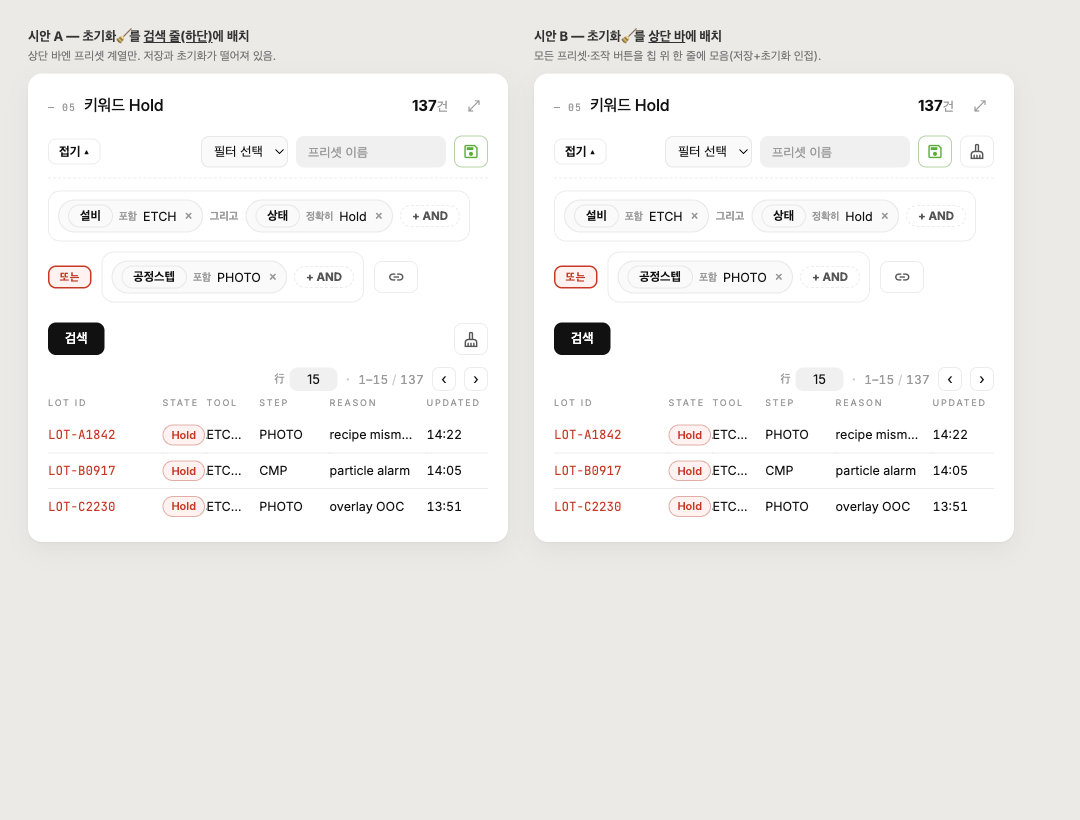
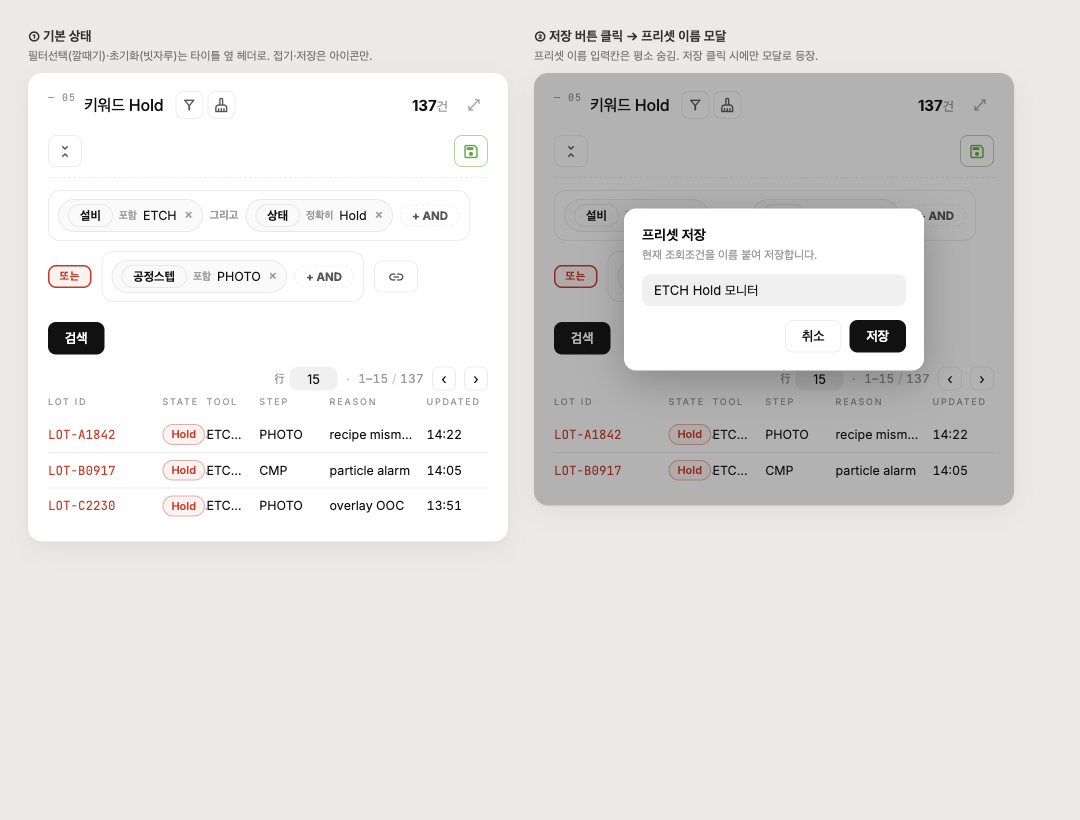
docs(kw-hold): 시안 v2 — 피드백 4종 반영
#1 접기/펼치기 아이콘만(unfold_less), #2 프리셋 이름 저장 모달화,
#3 필터선택 filter_alt(깔때기) 헤더 타이틀 옆 이동,
#4 초기화 빗자루 헤더 깔때기 옆 이동. (초기화 A/B 분기 폐기 → 단일안)

diff --git a/docs/mockups/kw-hold/mockup.html b/docs/mockups/kw-hold/mockup.html
@@ -2,7 +2,7 @@
 <html lang="ko">
 <head>
 <meta charset="utf-8" />
-<title>키워드 Hold — 리디자인 시안 A/B</title>
+<title>키워드 Hold — 리디자인 시안 v2</title>
 <link rel="preconnect" href="https://fonts.googleapis.com" />
 <link rel="preconnect" href="https://fonts.gstatic.com" crossorigin />
 <link href="https://fonts.googleapis.com/css2?family=Inter:wght@400;500;600;700;800&family=JetBrains+Mono:wght@400;500&family=Material+Symbols+Outlined:opsz,wght,FILL,GRAD@20..48,100..700,0..1,-50..200" rel="stylesheet" />
@@ -25,12 +25,11 @@
   .variant__cap{font-size:13px;font-weight:700;color:#333;margin:0 0 4px;}
   .variant__sub{font-size:11.5px;color:#777;margin:0 0 10px;}
 
-  /* ── card / panel (실제 styles.css 발췌, light theme) ── */
-  .card{display:flex;flex-direction:column;min-width:0;background:var(--canvas);
+  .card{position:relative;display:flex;flex-direction:column;min-width:0;background:var(--canvas);
     padding:18px 20px;border-radius:14px;box-shadow:0 1px 2px rgba(0,0,0,.04),0 8px 24px rgba(0,0,0,.05);}
   .card__head{display:flex;align-items:center;justify-content:space-between;gap:14px;margin-bottom:16px;}
-  .kw-titlewrap{display:flex;align-items:baseline;gap:8px;}
-  .card__index{font-family:var(--font-mono);font-size:10px;color:var(--ink-mute);letter-spacing:.1em;margin:0;}
+  .kw-titlewrap{display:flex;align-items:center;gap:8px;}
+  .card__index{font-family:var(--font-mono);font-size:10px;color:var(--ink-mute);letter-spacing:.1em;margin:0;align-self:baseline;}
   .card__title{margin:0;font-size:16px;font-weight:500;letter-spacing:-.015em;}
   .card__meta{font-size:10px;color:var(--ink-mute);letter-spacing:.18em;text-transform:uppercase;
     display:inline-flex;align-items:center;gap:12px;}
@@ -39,25 +38,24 @@
   .card__icon{display:grid;place-items:center;width:28px;height:28px;border-radius:999px;background:transparent;border:0;color:var(--ink-mute);cursor:pointer;}
   .card__icon .material-symbols-outlined{font-size:16px;}
 
-  /* ── NEW: 상단 컨트롤 바 (칩 위) ── */
-  .kw-topbar{display:flex;align-items:center;gap:8px;flex-wrap:wrap;
-    padding:0 0 10px;margin:0 0 12px;border-bottom:1px dashed var(--rule);}
+  /* 타이틀 옆 헤더 아이콘 — 필터선택(깔때기) + 초기화(빗자루) (#3,#4) */
+  .kw-headicon{display:inline-flex;align-items:center;justify-content:center;width:28px;height:28px;border-radius:8px;
+    border:1px solid var(--rule);background:transparent;color:var(--ink-soft);cursor:pointer;}
+  .kw-headicon .material-symbols-outlined{font-size:18px;}
+  .kw-headgroup{display:inline-flex;align-items:center;gap:4px;margin-left:4px;}
+
+  /* 상단 컨트롤 바 (칩 위) — 접기 아이콘 + 저장 아이콘 */
+  .kw-topbar{display:flex;align-items:center;gap:8px;padding:0 0 10px;margin:0 0 12px;border-bottom:1px dashed var(--rule);}
   .kw-topbar__grow{flex:1 1 auto;}
-
-  .kw-toggle{border:1px solid var(--rule);background:transparent;color:inherit;border-radius:8px;
-    padding:4px 10px;font-size:12.5px;font-weight:700;cursor:pointer;font-family:inherit;white-space:nowrap;}
-  .kw-select{background:var(--soft);color:inherit;border:1px solid var(--rule);border-radius:8px;
-    padding:6px 8px;font-size:13px;font-family:inherit;}
-  .field__input{background:var(--tint);border:0;border-radius:8px;padding:8px 12px;font-size:13px;color:var(--ink);font-family:inherit;}
-  .field__input::placeholder{color:var(--ink-mute);}
-  .kw-value{min-width:110px;flex:0 1 150px;}
-
   .kw-iconbtn{display:inline-flex;align-items:center;justify-content:center;border:1px solid var(--rule);
     background:transparent;color:var(--ink-soft);border-radius:8px;min-width:34px;height:32px;padding:0 6px;cursor:pointer;font-family:inherit;}
   .kw-iconbtn .material-symbols-outlined{font-size:19px;}
   .kw-iconbtn--save{color:var(--save);border-color:color-mix(in srgb,var(--save) 40%,var(--rule));}
 
-  /* ── 칩 빌더 ── */
+  .field__input{background:var(--tint);border:0;border-radius:8px;padding:8px 12px;font-size:13px;color:var(--ink);font-family:inherit;}
+  .field__input::placeholder{color:var(--ink-mute);}
+
+  /* 칩 빌더 */
   .kw-edit{margin-bottom:8px;}
   .kw-builder--chips{display:flex;flex-wrap:wrap;align-items:center;gap:10px;margin-bottom:12px;}
   .kw-chipbox{display:inline-flex;flex-wrap:wrap;align-items:center;gap:7px;padding:8px 9px;border-radius:12px;border:1px solid var(--rule);background:var(--canvas);}
@@ -70,19 +68,15 @@
   .kw-chip__x{border:0;background:transparent;color:var(--ink-mute);cursor:pointer;font-size:14px;line-height:1;padding:0 0 0 2px;}
   .kw-ghost__op{font-size:10.5px;font-weight:600;color:var(--ink-mute);}
   .kw-add-chip{border:1px dashed var(--rule);background:transparent;color:var(--ink-soft);border-radius:999px;padding:3px 11px;font-size:11.5px;font-weight:700;cursor:pointer;font-family:inherit;}
-
-  /* OR 추가 — 사슬(link) 아이콘 (#2) */
   .kw-add-or{display:inline-flex;align-items:center;justify-content:center;border:1px solid var(--rule);background:transparent;color:var(--ink-soft);
     border-radius:8px;min-width:34px;height:32px;padding:0 12px;cursor:pointer;font-family:inherit;}
   .kw-add-or .material-symbols-outlined{font-size:18px;}
 
-  /* ── 검색 액션 줄 ── */
   .kw-actions{display:flex;align-items:center;gap:8px;margin:0 0 12px;}
-  .kw-actions__grow{flex:1 1 auto;}
   .kw-btn{border:1px solid var(--rule);background:transparent;color:inherit;border-radius:8px;padding:7px 16px;font-size:13px;font-weight:600;cursor:pointer;font-family:inherit;}
   .kw-btn--primary{background:var(--accent);color:var(--canvas);border-color:transparent;}
 
-  /* ── 스테퍼 (lot hold 동일 모양, 결과 위) (#1) ── */
+  /* 스테퍼 (lot hold 동일, 결과 위) (#1 — 이전 라운드 확정) */
   .lot-step{display:inline-flex;align-items:center;gap:8px;font-variant-numeric:tabular-nums;}
   .lot-step__size{font-size:12px;color:var(--ink-mute);display:inline-flex;align-items:center;gap:5px;}
   .lot-step__sizeinput{min-width:44px;width:48px;padding:4px 6px;text-align:center;}
@@ -93,7 +87,6 @@
     width:24px;height:24px;border-radius:7px;cursor:pointer;display:inline-flex;align-items:center;justify-content:center;}
   .kw-steprow{display:flex;justify-content:flex-end;align-items:center;margin:0 0 6px;}
 
-  /* ── 결과 테이블 ── */
   .lot-table{width:100%;border-collapse:collapse;font-variant-numeric:tabular-nums;table-layout:fixed;}
   .lot-table thead th{text-align:left;font-size:9px;letter-spacing:.2em;text-transform:uppercase;color:var(--ink-mute);font-weight:400;padding:0 0 10px;}
   .lot-table td{padding:7px 10px 7px 0;font-size:12.5px;line-height:1.35;vertical-align:middle;white-space:nowrap;overflow:hidden;text-overflow:ellipsis;border-bottom:1px solid var(--rule);}
@@ -102,25 +95,35 @@
   tr.is-hold .lot-table__lot-id{color:var(--hold);}
   .pill{display:inline-flex;align-items:center;padding:2px 8px;border-radius:999px;font-size:11px;font-weight:600;border:1px solid var(--rule);}
   .pill--hold{color:var(--hold);background:var(--hold-soft);border-color:color-mix(in srgb,var(--hold) 30%,var(--rule));}
-  .badge-new{display:inline-flex;align-items:center;gap:3px;font-size:10px;font-weight:700;color:#fff;background:var(--hold);border-radius:6px;padding:2px 7px;letter-spacing:.02em;vertical-align:middle;}
 
-  .tag{display:inline-block;font-size:10px;font-weight:700;border-radius:5px;padding:1px 6px;margin-left:6px;vertical-align:middle;}
-  .tag--new{color:#fff;background:var(--hold);}
-  .tag--icon{color:var(--ink-soft);background:var(--tint);}
+  /* 저장 모달 (#2) */
+  .modal-backdrop{position:absolute;inset:0;background:rgba(17,17,17,.32);border-radius:14px;
+    display:flex;align-items:center;justify-content:center;z-index:5;}
+  .modal{width:300px;background:var(--canvas);border-radius:12px;padding:18px;
+    box-shadow:0 12px 40px rgba(0,0,0,.25);}
+  .modal__title{margin:0 0 4px;font-size:14px;font-weight:700;}
+  .modal__hint{margin:0 0 12px;font-size:11.5px;color:var(--ink-mute);}
+  .modal__field{width:100%;}
+  .modal__actions{display:flex;justify-content:flex-end;gap:8px;margin-top:14px;}
+  .badge-hint{display:inline-block;font-size:10px;font-weight:700;color:#fff;background:var(--hold);border-radius:5px;padding:1px 6px;margin-left:6px;vertical-align:middle;}
 </style>
 </head>
 <body>
 <div class="stage">
 
-  <!-- ════════ 시안 A ════════ -->
+  <!-- ════════ 기본 상태 ════════ -->
   <section class="variant">
-    <p class="variant__cap">시안 A — 초기화🧹를 <u>검색 줄(하단)</u>에 배치</p>
-    <p class="variant__sub">상단 바엔 프리셋 계열만. 저장과 초기화가 떨어져 있음.</p>
+    <p class="variant__cap">① 기본 상태</p>
+    <p class="variant__sub">필터선택(깔때기)·초기화(빗자루)는 타이틀 옆 헤더로. 접기·저장은 아이콘만.</p>
     <article class="card">
       <header class="card__head">
         <div class="kw-titlewrap">
           <p class="card__index">— 05</p>
           <h2 class="card__title">키워드 Hold</h2>
+          <span class="kw-headgroup">
+            <button class="kw-headicon" title="필터 선택(프리셋 불러오기)"><span class="material-symbols-outlined">filter_alt</span></button>
+            <button class="kw-headicon" title="초기화"><span class="material-symbols-outlined">cleaning_services</span></button>
+          </span>
         </div>
         <div class="card__meta">
           <span class="kw-count"><strong>137</strong>건</span>
@@ -128,16 +131,13 @@
         </div>
       </header>
 
-      <!-- 상단 컨트롤 바 (NEW) -->
+      <!-- 상단 바: 접기 아이콘(좌) · 저장 아이콘(우) -->
       <div class="kw-topbar">
-        <button class="kw-toggle">접기 ▴</button>
+        <button class="kw-iconbtn" title="접기"><span class="material-symbols-outlined">unfold_less</span></button>
         <span class="kw-topbar__grow"></span>
-        <select class="kw-select"><option>필터 선택</option></select>
-        <input class="field__input kw-value" placeholder="프리셋 이름" />
-        <button class="kw-iconbtn kw-iconbtn--save" title="프리셋 저장"><span class="material-symbols-outlined">save</span></button>
+        <button class="kw-iconbtn kw-iconbtn--save" title="프리셋 저장(모달)"><span class="material-symbols-outlined">save</span></button>
       </div>
 
-      <!-- 칩 빌더 -->
       <div class="kw-edit">
         <div class="kw-builder--chips">
           <div class="kw-chipbox">
@@ -151,19 +151,14 @@
             <span class="kw-chip"><span class="kw-chip__fieldtag">공정스텝</span><span class="kw-ghost__op">포함</span>PHOTO<button class="kw-chip__x">×</button></span>
             <button class="kw-add-chip">+ AND</button>
           </div>
-          <!-- OR 추가 = 사슬(link) 아이콘 (#2) -->
           <button class="kw-add-or" title="또는(OR) 그룹 추가"><span class="material-symbols-outlined">link</span></button>
         </div>
       </div>
 
-      <!-- 검색 줄 — 초기화🧹가 여기(A) -->
       <div class="kw-actions">
         <button class="kw-btn kw-btn--primary">검색</button>
-        <span class="kw-actions__grow"></span>
-        <button class="kw-iconbtn" title="초기화"><span class="material-symbols-outlined">cleaning_services</span></button>
       </div>
 
-      <!-- 스테퍼 (결과 위) (#1) -->
       <div class="kw-steprow">
         <span class="lot-step">
           <label class="lot-step__size">行 <input class="field__input lot-step__sizeinput" value="15" /></label>
@@ -186,15 +181,19 @@
     </article>
   </section>
 
-  <!-- ════════ 시안 B ════════ -->
+  <!-- ════════ 저장 모달 열림 ════════ -->
   <section class="variant">
-    <p class="variant__cap">시안 B — 초기화🧹를 <u>상단 바</u>에 배치</p>
-    <p class="variant__sub">모든 프리셋·조작 버튼을 칩 위 한 줄에 모음(저장+초기화 인접).</p>
+    <p class="variant__cap">② 저장 버튼 클릭 → 프리셋 이름 모달</p>
+    <p class="variant__sub">프리셋 이름 입력칸은 평소 숨김. 저장 클릭 시에만 모달로 등장.</p>
     <article class="card">
       <header class="card__head">
         <div class="kw-titlewrap">
           <p class="card__index">— 05</p>
           <h2 class="card__title">키워드 Hold</h2>
+          <span class="kw-headgroup">
+            <button class="kw-headicon" title="필터 선택(프리셋 불러오기)"><span class="material-symbols-outlined">filter_alt</span></button>
+            <button class="kw-headicon" title="초기화"><span class="material-symbols-outlined">cleaning_services</span></button>
+          </span>
         </div>
         <div class="card__meta">
           <span class="kw-count"><strong>137</strong>건</span>
@@ -202,17 +201,12 @@
         </div>
       </header>
 
-      <!-- 상단 컨트롤 바 (NEW) — 초기화🧹 포함 -->
       <div class="kw-topbar">
-        <button class="kw-toggle">접기 ▴</button>
+        <button class="kw-iconbtn" title="접기"><span class="material-symbols-outlined">unfold_less</span></button>
         <span class="kw-topbar__grow"></span>
-        <select class="kw-select"><option>필터 선택</option></select>
-        <input class="field__input kw-value" placeholder="프리셋 이름" />
-        <button class="kw-iconbtn kw-iconbtn--save" title="프리셋 저장"><span class="material-symbols-outlined">save</span></button>
-        <button class="kw-iconbtn" title="초기화"><span class="material-symbols-outlined">cleaning_services</span></button>
+        <button class="kw-iconbtn kw-iconbtn--save" title="프리셋 저장(모달)"><span class="material-symbols-outlined">save</span></button>
       </div>
 
-      <!-- 칩 빌더 -->
       <div class="kw-edit">
         <div class="kw-builder--chips">
           <div class="kw-chipbox">
@@ -230,12 +224,10 @@
         </div>
       </div>
 
-      <!-- 검색 줄 — 초기화 없음(상단으로 이동) -->
       <div class="kw-actions">
         <button class="kw-btn kw-btn--primary">검색</button>
       </div>
 
-      <!-- 스테퍼 (결과 위) (#1) -->
       <div class="kw-steprow">
         <span class="lot-step">
           <label class="lot-step__size">行 <input class="field__input lot-step__sizeinput" value="15" /></label>
@@ -252,9 +244,21 @@
         <tbody>
           <tr class="is-hold"><td class="lot-table__lot-id">LOT-A1842</td><td><span class="pill pill--hold">Hold</span></td><td>ETCH-03</td><td>PHOTO</td><td>recipe mismatch</td><td>14:22</td></tr>
           <tr class="is-hold"><td class="lot-table__lot-id">LOT-B0917</td><td><span class="pill pill--hold">Hold</span></td><td>ETCH-01</td><td>CMP</td><td>particle alarm</td><td>14:05</td></tr>
-          <tr class="is-hold"><td class="lot-table__lot-id">LOT-C2230</td><td><span class="pill pill--hold">Hold</span></td><td>ETCH-07</td><td>PHOTO</td><td>overlay OOC</td><td>13:51</td></tr>
         </tbody>
       </table>
+
+      <!-- 모달 오버레이 -->
+      <div class="modal-backdrop">
+        <div class="modal">
+          <p class="modal__title">프리셋 저장</p>
+          <p class="modal__hint">현재 조회조건을 이름 붙여 저장합니다.</p>
+          <input class="field__input modal__field" placeholder="프리셋 이름" value="ETCH Hold 모니터" />
+          <div class="modal__actions">
+            <button class="kw-btn">취소</button>
+            <button class="kw-btn kw-btn--primary">저장</button>
+          </div>
+        </div>
+      </div>
     </article>
   </section>
 